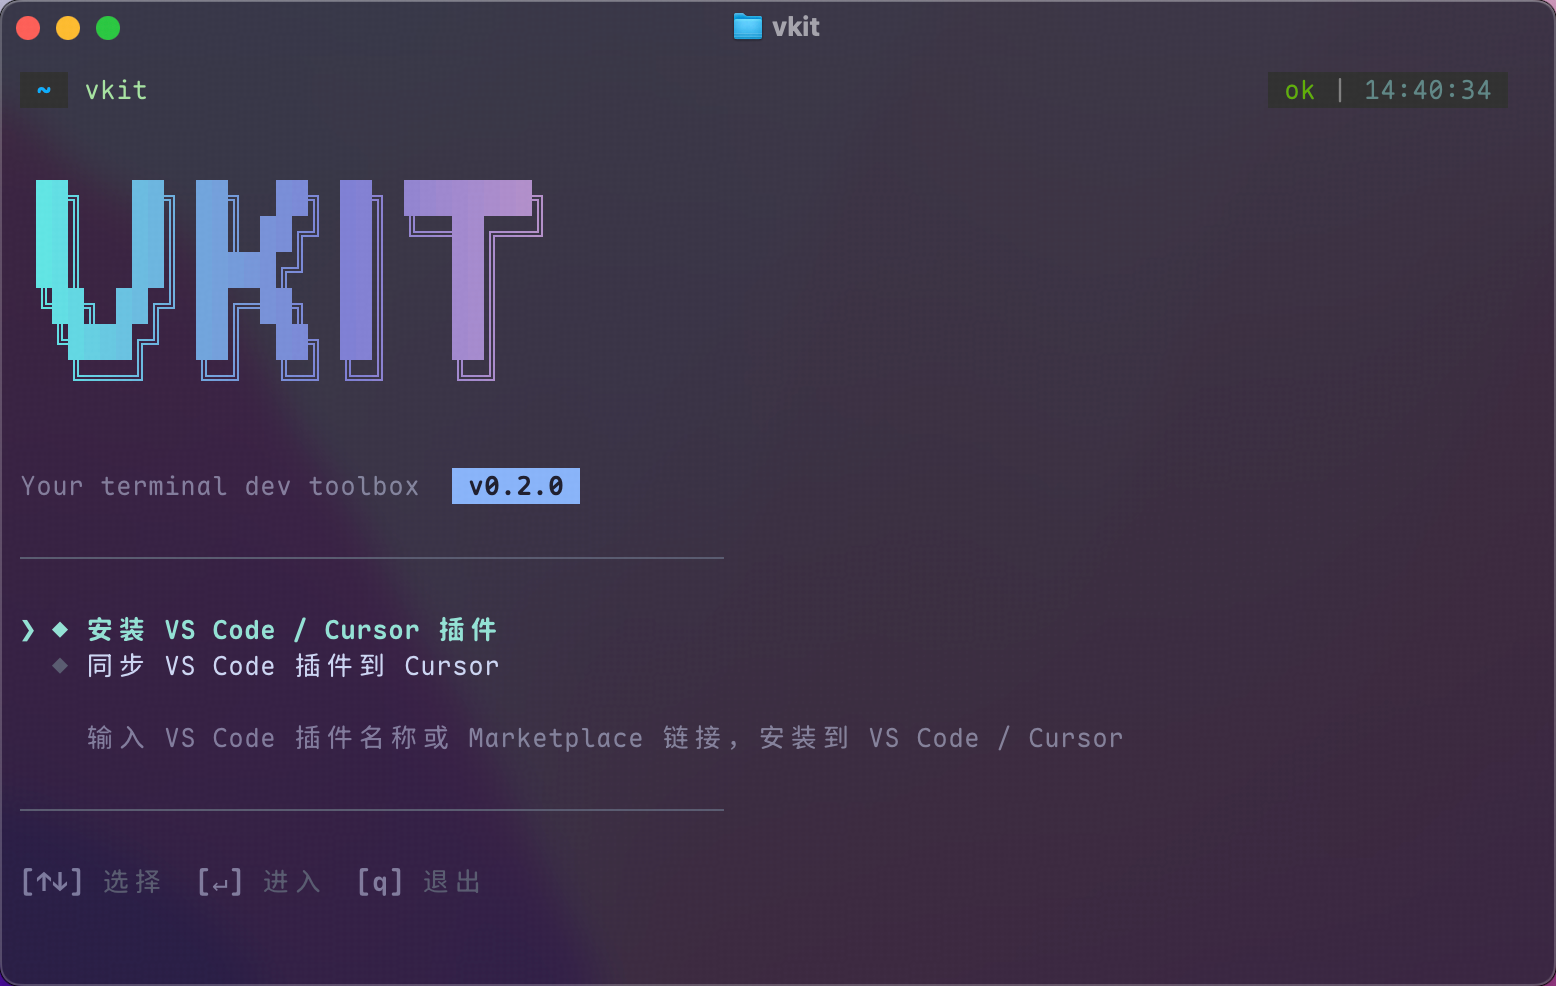
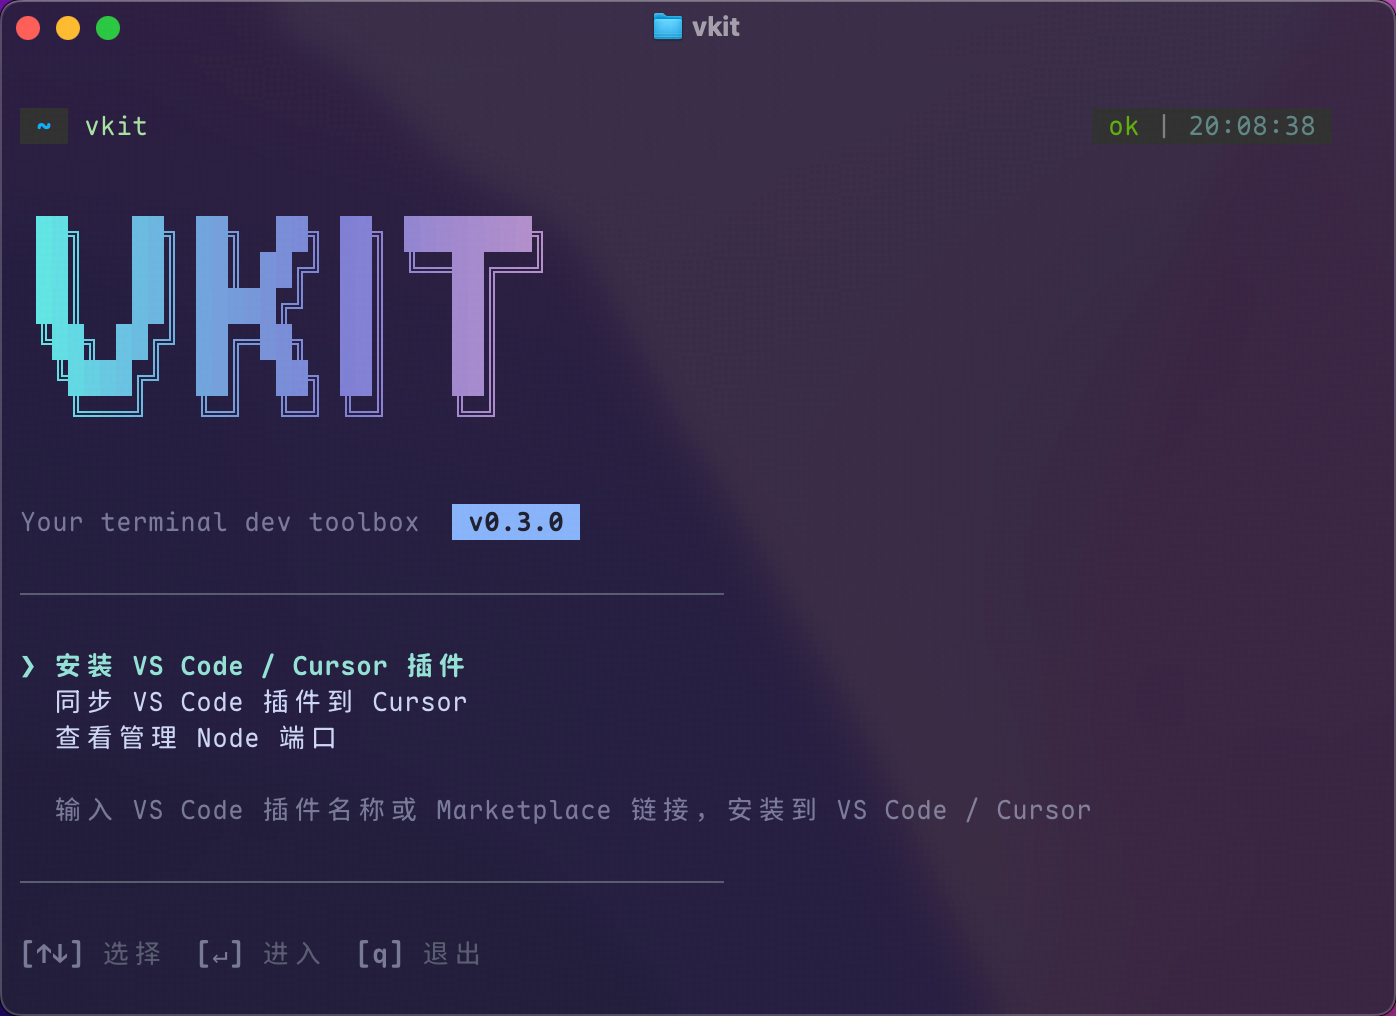
docs: update README and CLI documentation for port viewer tool and release process
- Enhanced README with details on the interactive dashboard, global installation, and CI-only publishing process.
- Added new documentation file for GitHub Actions release rules, emphasizing CI-only publishing and changeset requirements.
- Updated CLI readme to clarify installation prerequisites and added information about managing Node ports on macOS.

diff --git a/README.md b/README.md
@@ -19,50 +19,51 @@ pnpm test               # run tests
 
 ## CLI
 
+Interactive dashboard and script-mode commands. See [apps/cli/readme.md](apps/cli/readme.md) for full usage.
+
+**Tools:** VS Code / Cursor extension install & sync, Node port viewer (macOS).
+
 ```sh
 pnpm --filter @v-kit/cli build
 node apps/cli/dist/cli.js            # interactive dashboard
 node apps/cli/dist/cli.js vsix esbenp.prettier-vscode
+node apps/cli/dist/cli.js vsix-sync
 ```
 
-To install globally: `cd apps/cli && pnpm link --global` (exposes `vkit`).
+Install globally:
+
+```sh
+npm install -g @v-kit/cli
+# or: cd apps/cli && pnpm link --global
+```
 
 ## Publish to npm
 
-Published packages: **`@v-kit/core`** (library) and **`@v-kit/cli`** (CLI). Both stay on the **same version** (`fixed` group in Changesets).
+Published packages: **`@v-kit/core`** (library) and **`@v-kit/cli`** (CLI). Both stay on the **same version** (Changesets `fixed` group).
+
+**Publishing is CI-only** — do not run `npm publish` or `pnpm release` locally. The [Release workflow](.github/workflows/release.yml) handles build, provenance, and npm publish.
 
 ### One-time setup
 
 1. On [npmjs.com](https://www.npmjs.com/), create an **Automation** access token with publish permission.
 2. In GitHub repo **Settings → Secrets and variables → Actions**, add `NPM_TOKEN` with that token.
-3. Ensure the npm package names `@v-kit/cli` and `@v-kit/core` are available (the `v-kit` npm org must exist and the token must have publish access to it).
+3. Ensure `@v-kit/cli` and `@v-kit/core` exist under the `v-kit` npm org and the token can publish to them.
 
-### Release flow (automated)
+### Release flow
 
-1. In your feature PR, add a changeset when you change publishable packages:
+1. When changing publishable packages, add a changeset and commit it with your feature:
    ```sh
    pnpm changeset
    ```
-   Commit the generated `.changeset/*.md` file with your PR.
+2. Merge to `main`.
+3. CI opens a **Version Packages** PR (version bump + CHANGELOG).
+4. Merge that PR → CI publishes to npm and pushes git tags.
 
-2. Merge the PR to `main`.
-
-3. The [Release workflow](.github/workflows/release.yml) will open a **Version Packages** PR that bumps versions and updates changelogs.
-
-4. Merge the Version Packages PR → CI builds and publishes to npm (order and `workspace:*` rewriting are handled by Changesets).
-
-Users can then install globally:
+### Local only (no publish)
 
 ```sh
-npm install -g @v-kit/cli
-vkit --help
-```
-
-### Local dry run
-
-```sh
-pnpm changeset version   # apply pending changesets locally
-pnpm release             # build + publish (requires npm login)
+pnpm changeset version   # preview version bump locally
+pnpm build               # verify build
 ```
 
 ## Extension

diff --git a/apps/cli/readme.md b/apps/cli/readme.md
@@ -6,6 +6,7 @@
 
 - **安装 VS Code / Cursor 插件** — 输入插件 ID 或 Marketplace 链接，下载 `.vsix` 并安装到 VS Code / Cursor。
 - **同步插件到 Cursor** — 读取 VS Code 已装插件，把 Cursor 缺失的批量同步过去。
+- **查看管理 Node 端口** — 列出 macOS 上 node 进程的 TCP 监听端口，支持过滤与一键关闭占用（如 3000 被占）。
 - **自动升级提示** — 有新版本时启动后友好提醒。
 
 
@@ -19,17 +20,19 @@ npm install -g @v-kit/cli
 
 ## 使用前准备
 
-安装插件需要系统里能调用 **`cursor`** 或 **`code`** 命令。请在对应编辑器中打开命令面板，执行 **「Shell Command: Install 'cursor' command in PATH」**（Cursor）或 **「Shell Command: Install 'code' command in PATH」**（VS Code）。
+**安装插件**需要系统里能调用 **`cursor`** 或 **`code`** 命令。请在对应编辑器中打开命令面板，执行 **「Shell Command: Install 'cursor' command in PATH」**（Cursor）或 **「Shell Command: Install 'code' command in PATH」**（VS Code）。
 
 ![在编辑器中安装 cursor / code 命令](https://raw.githubusercontent.com/stekovinbranturry/vkit/main/images/install-command.png)
 
 安装完成后，在终端执行 `cursor --version` 或 `code --version` 确认可用。
 
+**查看管理 Node 端口**仅支持 **macOS**（依赖 `lsof`），无需额外配置。
+
 
 ## 使用
 
 ```bash
-vkit              # 进入主菜单
+vkit              # 进入主菜单，选择工具
 vkit vsix-sync    # 同步 VS Code 插件到 Cursor
 vkit vsix         # 打开 安装 VS Code / Cursor 插件表单
 